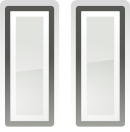
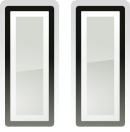
ui: little change in the colors

Changed region(s): [[0.0308, 0.0303, 0.4308, 0.9697], [0.5846, 0.0303, 0.9846, 0.9697]]

diff --git a/src/user_interface.c b/src/user_interface.c
@@ -244,7 +244,7 @@ load_controls (UserInterface * ui)
   gchar *icon_files[3];
   gchar *duration_str;
   gint c;
-  ClutterColor control_color1 = { 73, 74, 77, 0xee };
+  ClutterColor control_color1 = { 0x12, 0x12, 0x12, 0xff };
   ClutterColor control_color2 = { 0xcc, 0xcc, 0xcc, 0xff };
   ClutterLayoutManager *controls_layout;
   ClutterLayoutManager *main_box_layout;
@@ -344,8 +344,6 @@ load_controls (UserInterface * ui)
       &control_color1);
   clutter_box_pack (CLUTTER_BOX (info_box), ui->control_pos, "x-align",
       CLUTTER_BOX_ALIGNMENT_END, NULL);
-
-  clutter_actor_set_opacity (ui->control_box, 0xee);
 
   clutter_actor_lower_bottom (ui->control_bg);
 
@@ -488,7 +486,7 @@ show_controls (UserInterface * ui, gboolean vis)
     progress_update_text (ui);
     clutter_stage_show_cursor (CLUTTER_STAGE (ui->stage));
     clutter_actor_animate (ui->control_box, CLUTTER_EASE_OUT_QUINT,
-        CTL_FADE_DURATION, "opacity", 224, NULL);
+        CTL_FADE_DURATION, "opacity", 0xa0, NULL);
 
     if (ui->controls_timeout == 0) {
       ui->controls_timeout = g_timeout_add_seconds (3, controls_timeout_cb, ui);
